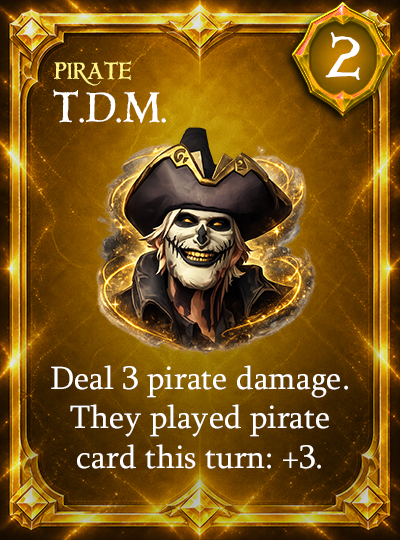
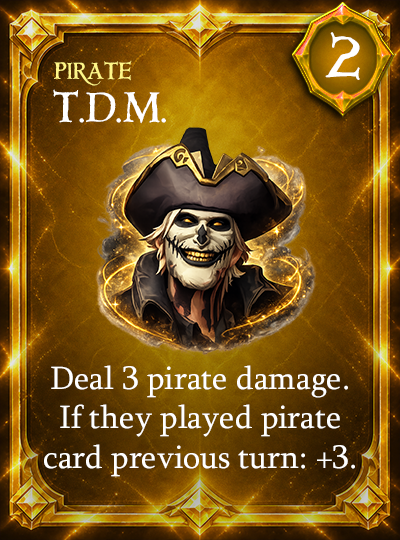
Premier PAtch

Changed region(s): [[0.09, 0.7407, 0.87, 0.8889]]

diff --git a/index.html b/index.html
@@ -1024,7 +1024,7 @@ const REWARD_CARDS = [
   {id:'r_fort',name:'Fort of the Damned',type:'naval',cost:3,reward:true,tier:'rare',effect:'4 ship dmg. If your pirate is dead: deal 7.',fn:'fortofthedamned'},
   {id:'r_reaperb',name:"Reaper's Bounty",type:'naval',cost:2,reward:true,tier:'rare',effect:'5 ship dmg. Your ship takes 2 damage.',fn:'reapersbounty'},
   {id:'r_spawnkill',name:'Spawn Kill',type:'pirate',cost:2,reward:true,tier:'rare',effect:"Opponent just respawned? Deal 6 pirate dmg.",fn:'spawnkill'},
-  {id:'r_tdm',name:'TDM Veteran',type:'pirate',cost:2,reward:true,tier:'rare',effect:'3 pirate dmg. They played pirate card this turn: +3.',fn:'tdmveteran'},
+  {id:'r_tdm',name:'TDM Veteran',type:'pirate',cost:2,reward:true,tier:'rare',effect:'3 pirate dmg. If they played a pirate card last turn: 6 instead.',fn:'tdmveteran'},
   {id:'r_redsea',name:'Red Sea Drift',type:'naval',cost:1,reward:true,tier:'rare',effect:'4 ship dmg. Your ship takes 1 dmg for 2 turns.',fn:'redseadrift'},
   {id:'r_reaperhide',name:"Reaper's Hideout",type:'naval',cost:2,reward:true,tier:'rare',effect:'Deal 2 ship dmg and 2 pirate dmg simultaneously.',fn:'reapershideout'},
   {id:'r_kegdrop',name:'Keg Drop',type:'naval',cost:2,reward:true,tier:'rare',effect:'Deal 3 ship dmg and 2 pirate dmg.',fn:'kegdrop'},
@@ -1077,6 +1077,7 @@ function newG() {
     mod:'none', modTurn:0, zoneStage:0,
     pAttackedLast:false, eAttackedLast:false,
     pPirateLast:false, ePirateLast:false,
+    playedThisTurn:0, spotlightPending:0,
     swordlord:{p:0,e:0},
   };
 }
@@ -1143,6 +1144,7 @@ function startBattle(){
   G.phase='player';
   G.pAttackedLast=false; G.eAttackedLast=false;
   G.pPirateLast=false; G.ePirateLast=false;
+  G.playedThisTurn=0; G.spotlightPending=0;
   G.swordlord={p:0,e:0};
   G.legendUsed=false;
 
@@ -1274,7 +1276,7 @@ function makeCardEl(card,idx,clickable,noBadges=false){
   const div=document.createElement('div');
   const cost=cardCost(card,'p');
   const baseCost=card.cost;
-  const canPlay=clickable&&G.phase==='player'&&!G.P.dead&&!G.P.anchorballed&&cost<=G.mana&&!shantiedBlock(card);
+  const canPlay=clickable&&G.phase==='player'&&!G.P.dead&&!G.P.anchorballed&&cost<=G.mana&&!shantiedBlock(card)&&!(G.P.chained&&(G.playedThisTurn||0)>=1);
   let cls='card '+card.type;
   if(card.reward)cls+=' reward';
   if(card.consumed)cls+=' consumed';
@@ -1825,12 +1827,15 @@ function playCard(idx){
   const cost=cardCost(card,'p');
   if(cost>G.mana)return;
   if(shantiedBlock(card)){log('event','Shanty! No attacks.');return;}
+  // Chainshot — limited to 1 card this turn
+  if(G.P.chained&&G.playedThisTurn>=1){log('event','⛓ Chained! Only 1 card this turn.');setMsg('⛓ Chained — you already played your 1 card this turn.');return;}
   // Brief play animation
   const cardEls=document.getElementById('player-hand').children;
   if(cardEls[idx])cardEls[idx].style.transform='scale(0.8) translateY(-20px)';
   cardSound(card);
   const wasNextFree=G.P.nextFree;
   G.mana-=cost;
+  G.playedThisTurn=(G.playedThisTurn||0)+1;
   if(G.P.nextTwoFree>0)G.P.nextTwoFree--;
   delete card.isFreeThisTurn; // clear crow's nest flag after playing
   if(wasNextFree&&card.fn!=='smugglersdeal')G.P.nextFree=false; // clear after using it, not when setting it
@@ -1838,8 +1843,10 @@ function playCard(idx){
   if(!card.consumed)G.pDiscard.push(card);
   // Update discard pile immediately so you see card go there
   updateCounts();
+  G.spotlightPending=Date.now(); // effect not applied yet — End Turn must wait
   spotlight(card,'p',()=>{
     fx(card,'p');
+    G.spotlightPending=0; // effect applied — safe to end turn
     log('player','▶ You played '+card.name+'.');
     checkEnd();
     renderAll();
@@ -1849,6 +1856,12 @@ function playCard(idx){
 
 function endPlayerTurn(){
   if(G.phase!=='player')return;
+  // Wait for a pending card effect (spotlight) — prevents anchorball/shanty/chainshot applying too late
+  if(G.spotlightPending&&Date.now()-G.spotlightPending<3000){
+    setTimeout(endPlayerTurn,250);
+    return;
+  }
+  G.spotlightPending=0;
   G.phase='end_p';
   // TNT check — Explosive Keg held too long
   const ti=G.pHand.findIndex(c=>c.isTNT);
@@ -1860,10 +1873,11 @@ function endPlayerTurn(){
   // If pirate was killed by grog this turn, trigger death now
   if(G.P.grogKilled){G.P.grogKilled=false;G.P.dead=true;G.P.deadTurns=0;}
   G.P.allianceActive=false;G.P.shantied=false;G.P.nextFree=false;
+  G.P.chained=false; // chainshot limit is over once the turn ends
   G.P.healsFreeNext=false;G.P.nextTwoFree=0;
   G.pHand.forEach(c=>delete c.isFreeThisTurn);
   // Note: raiseanchor persists into enemy turn so it can block incoming damage
-  G.pPirateLast=false;
+  // Note: pPirateLast persists through enemy turn (TDM Veteran checks it) — cleared at next player turn start
   if(G.P.redseaTurns>0){dmgShip('p',1);G.P.redseaTurns--;log('damage','🌊 Red Sea tide: 1 dmg.');}
   checkEnd();
   if(G.phase==='end_p'){
@@ -1943,8 +1957,8 @@ function turnStart(who){
 
 // ===================== AI =====================
 function runEnemy(){
+  const enemyWasDead=G.E.dead; // capture BEFORE turnStart (which triggers respawn)
   turnStart('e');
-  const enemyWasDead=G.E.dead;
   // Apply pending shanty
   if(G.E.shantiedNext){G.E.shantied=true;G.E.shantiedNext=false;}
   // Apply pending anchorball
@@ -1970,14 +1984,19 @@ function runEnemy(){
   const diff=Math.min(1,(G.streak+1)/10);
   const sorted=aiSort([...G.eHand],diff);
   const delays=[];
+  let aiNextFree=G.E.nextFree; // simulate smuggler's deal within this turn's planning
+  G.E.nextFree=false;
   for(let i=0;i<sorted.length&&played<cap;i++){
     const card=sorted[i];
     const ci=G.eHand.findIndex(c=>c.uid===card.uid);if(ci===-1)continue;
-    const cost=cardCost(card,'e');
+    let cost=cardCost(card,'e');
+    if(aiNextFree){cost=0;}
     if(cost>aiMana)continue;
     if(G.E.shantied&&(card.type==='naval'||card.type==='pirate'))continue;
     if(G.E.krakened&&card.type==='naval')continue;
     if(!aiShould(card,diff))continue;
+    if(aiNextFree)aiNextFree=false; // free ticket used by this card
+    if(card.fn==='smugglersdeal')aiNextFree=true; // next selected card is free
     aiMana-=cost;
     G.eHand.splice(ci,1);
     if(!card.consumed)G.eDiscard.push(card);
@@ -1990,7 +2009,9 @@ function runEnemy(){
   delays.forEach((card,i)=>{
     playedNames.push(card.name);
     setTimeout(()=>{
+      if(G.phase==='done')return; // battle already over — stop the card flow
       spotlight(card,'e',()=>{
+        if(G.phase==='done'){renderAll();return;} // ended mid-spotlight
         fx(card,'e');
         log('ai','◀ Enemy played '+card.name+'.');
         updateCounts();
@@ -1999,6 +2020,10 @@ function runEnemy(){
     },i*SPOTLIGHT_DURATION+300);
   });
   setTimeout(()=>{
+    if(G.phase==='done')return; // battle over — don't start another turn
+    // Clear log message when shantied AI couldn't play
+    if(playedNames.length===0&&G.E.shantied)log('ai','🎵 Enemy is shantied — no attack cards to play this turn.');
+    else if(playedNames.length===0)log('ai','Enemy played no cards this turn.');
     // Show enemy last turn summary
     const elt=document.getElementById('enemy-last-turn');
     if(elt&&playedNames.length>0){
@@ -2069,8 +2094,9 @@ function endEnemy(){
   if(ti!==-1){dmgShip('e',2);G.eHand.splice(ti,1);log('event','💣 Enemy Explosive Keg blew up! 2 dmg to enemy ship.');}
   G.eDiscard.push(...G.eHand);G.eHand=[];
   G.E.allianceActive=false;G.E.shantied=false;G.E.krakened=false;
+  G.E.nextFree=false; // CRITICAL: without this, AI Smuggler's Deal makes ALL its cards free forever
   G.E.st.raiseanchor=0;
-  G.ePirateLast=false;
+  // Note: ePirateLast persists through player turn (TDM Veteran checks it) — cleared at next enemy turn start
   checkEnd();
   document.getElementById('ai-thinking').style.display='none';
   if(G.phase==='enemy'||G.phase==='waiting'){
@@ -2081,9 +2107,11 @@ function endEnemy(){
       turnStart('p');
       if(G.P.shantiedNext){G.P.shantied=true;G.P.shantiedNext=false;}
       if(G.P.anchorballedNext){G.P.anchorballed=true;G.P.anchorballedNext=false;}
-      G.P.chained=false;
+      G.playedThisTurn=0; // reset card counter (chainshot enforcement)
+      // NOTE: G.P.chained stays TRUE during this turn so the 1-card limit applies — cleared at end of turn
       G.P.st.raiseanchor=0; // clear raise anchor — enemy turn is over
       G.pAttackedLast=false;
+      G.pPirateLast=false; // fresh tracking for this player turn (TDM Veteran)
       // Pirate death penalty: -1 mana, -1 card (no skip)
       G.mana=Math.max(1,G.maxMana-(playerWasDead?1:0));
       draw('p',Math.max(1,handSize()-(playerWasDead?1:0)));
@@ -2101,7 +2129,7 @@ function endEnemy(){
         checkEnd();renderAll();
         return;
       }
-      setMsg(G.P.shantied ? '🎵 Shanty — no attack cards this turn. End Turn when ready.' : 'Your turn — play your cards!');
+      setMsg(G.P.chained ? '⛓ Chained — you can only play 1 card this turn!' : (G.P.shantied ? '🎵 Shanty — no attack cards this turn. End Turn when ready.' : 'Your turn — play your cards!'));
       document.getElementById('end-turn-btn').disabled=false;
       checkEnd();renderAll();
     }
@@ -2773,8 +2801,10 @@ window.showReward=function(){
 // Patch endPlayerTurn to play end_turn sound
 const _origEndTurn=endPlayerTurn;
 window.endPlayerTurn=function(){
-  playSFX('end_turn');
+  const wasPlayer=G.phase==='player';
   _origEndTurn();
+  // Only play the sound when the turn actually ended (not on spotlight-wait retries)
+  if(wasPlayer&&G.phase!=='player')playSFX('end_turn');
 };
 
 // Patch modifier events to play splash sound
